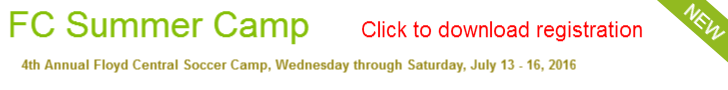
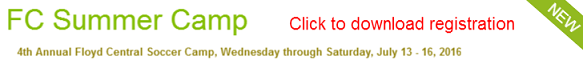
update ad

diff --git a/index.html b/index.html
@@ -12,7 +12,7 @@
 		<p class="lead" style="padding-left:40px;">Welcome to our soccer portal. Choose a school below.</p>		
           <p style="margin-top:20px">
             <a href="FCCamp2016v3.pdf" download>
-                <img border="0" src="fcsummercampv2.png" alt="FC summer camp july 13th" width="728" height="90">
+                <img border="0" src="fcsummercampv2.png" alt="FC summer camp july 13th" width="583" height="72">
             </a> 
           </p>        
       </div>
